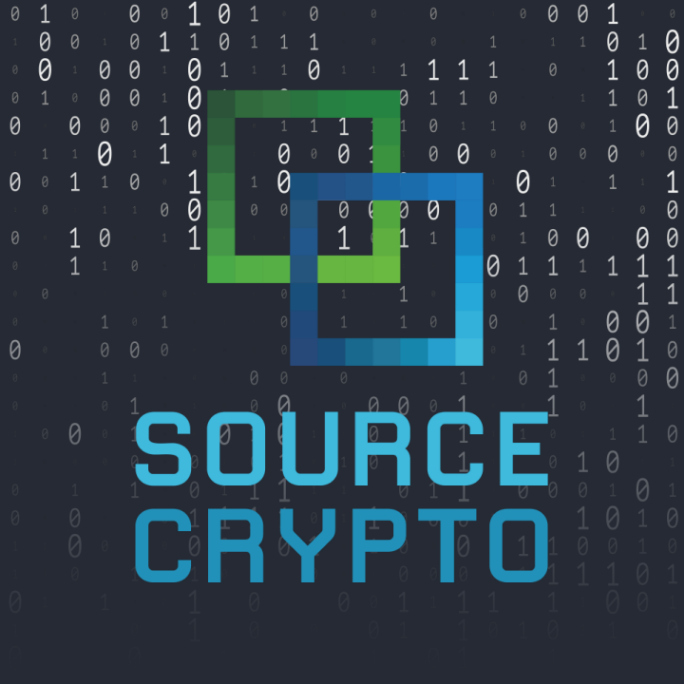
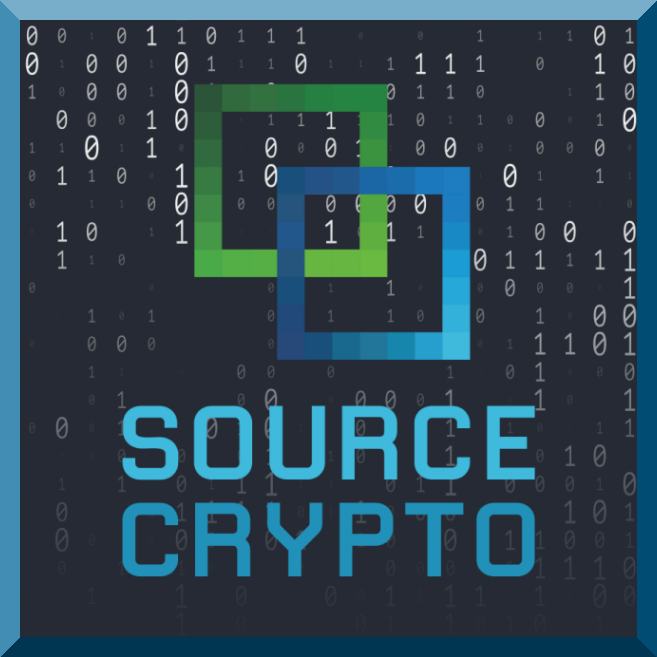
add square

diff --git a/_pages/index.md b/_pages/index.md
@@ -45,7 +45,7 @@ The aim is to generally map out the history and knowledge related to Bitcoin\blo
 So, little by little, those un-organized pages will grow to become each a formidible resource of its own.
 
 
-![](https://infominer.id/SourceCrypto/assets/img/SourceCrypto.png)
+![](https://infominer.id/SourceCrypto/assets/img/Square-Crypto.png)
 
 ## A Machine Readable Repository on Every Subject In Crypto.
 
